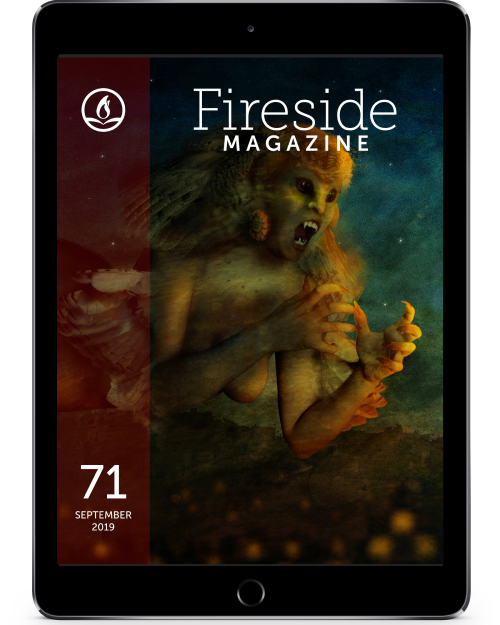
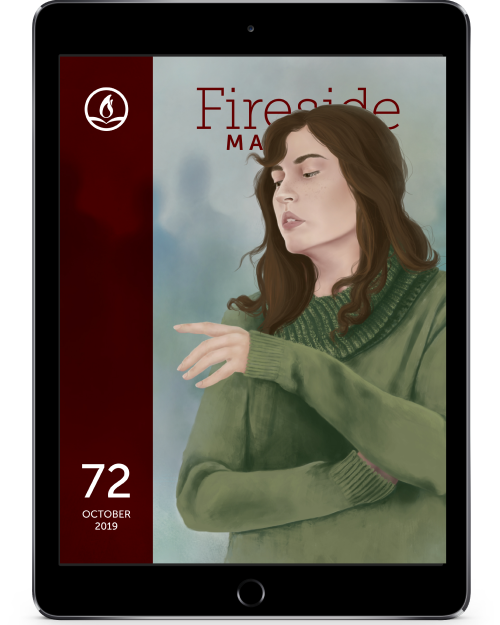
product page

diff --git a/_layouts/magazine-product-page.html b/_layouts/magazine-product-page.html
@@ -17,7 +17,7 @@
         <h1>The high-quality, full-color, illustrated print edition of <em>Fireside</em>, <br/>delivered to your mailbox for only $10 a month.</h1>
         <div>
           <div>
-            <h4>Now shipping:<br/>the July 2019 issue</h4>
+            <h4>Now shipping:<br/>the October 2019 issue</h4>
             <a href="https://firesidefiction.memberful.com/checkout?plan=25789" class="btn">Subscribe now</a><br/>
             <small><a href="https://firesidefiction.memberful.com/checkout?plan=25936">Subscribe for a Year</a> | <a href="https://firesidefiction.memberful.com/gift?plan=25936">Send as a gift</a></small><br/>
           </div>
@@ -35,25 +35,26 @@
           <div>
             <h4>The latest issue features stories, essays, and poems by:</h4>
             <ul>
-              <li>Nibedita Sen</li>
-              <li>José Pablo Iriarte</li>
-              <li>Sheree Renée Thomas</li>
-              <li>Jacqui Talbot</li>
-              <li>M.K. Hutchins</li>
-              <li>Ali Trotta</li>
-              <li>Maria Haskins</li>
-              <li>Joanne Rixon</li>
-              <li>Charles Payseur</li>
-              <li>Danny Lore</li>
-              <li>Grace Villmow</li>
-              <li>L. D. Lewis</li>
-              <li>Michelle Muenzler</li>
-              <li>Aimee Ogden</li>
-              <li>Raquel Castro</li>
-              <li>David Bowles</li>
-              <li>Libia Brenda</li>
-              <li>Ashley Deng</li>
-              <li>Iliana Vargas</li>
+              <li>Catherine Lundoff</li>
+              <li>Suyi Davies Okungbowa</li>
+              <li>Okwudili Nebeolisa</li>
+              <li>A. T. Greenblatt</li>
+              <li>Carolin Jansen</li>
+              <li>Diana Lu</li>
+              <li>Eugenia Triantafyllou</li>
+              <li>Suzan Palumbo</li>
+              <li>Elsa Sjunneson-Henry</li>
+              <li>Amber Bird</li>
+              <li>Innocent Chizaram Ilo</li>
+              <li>Patricia Coral</li>
+              <li>Francesca Forrest</li>
+              <li>Amanda Helms</li>
+              <li>Brandon O'Brien</li>
+              <li>Dominica Phetteplace</li>
+              <li>Eliza Victoria</li>
+              <li>C. S. E. Cooney </li>
+              <li>Sherin Nicole</li>
+              <li>Kerry Truong</li>
             </ul>
           </div>
           <figure>
@@ -70,11 +71,11 @@
         <div>
             <figure><img src="images/graphics/magazine-product-page-gatefold-shot.png"></figure>
         </div>
-        <h4>The July issue features illustrations by:</h4>
+        <h4>The October issue features illustrations by:</h4>
         <ul>
-          <li>Mary Haasdyk</li>
-          <li>Francesco Giani</li>
-          <li>Mariana Palova</li>
+          <li>Amanda Makepeace</li>
+          <li>Reiko Murakami</li>
+          <li>Stephanie Singleton</li>
         </ul>
       </section>
 

diff --git a/_sass/scss/generic/_variables.scss b/_sass/scss/generic/_variables.scss
@@ -29,7 +29,7 @@ $color__default: $gray-dark-2;
 // Fireside Red
 $color__fireside-red: #640000;
 
-$color__product-page: #f39e9b;
+$color__product-page: #9ceaf2;
 
 // Set Site Specific Base, Highlight and Accent Colors Here for easy switching between themes
 $color__base: $color__default;
